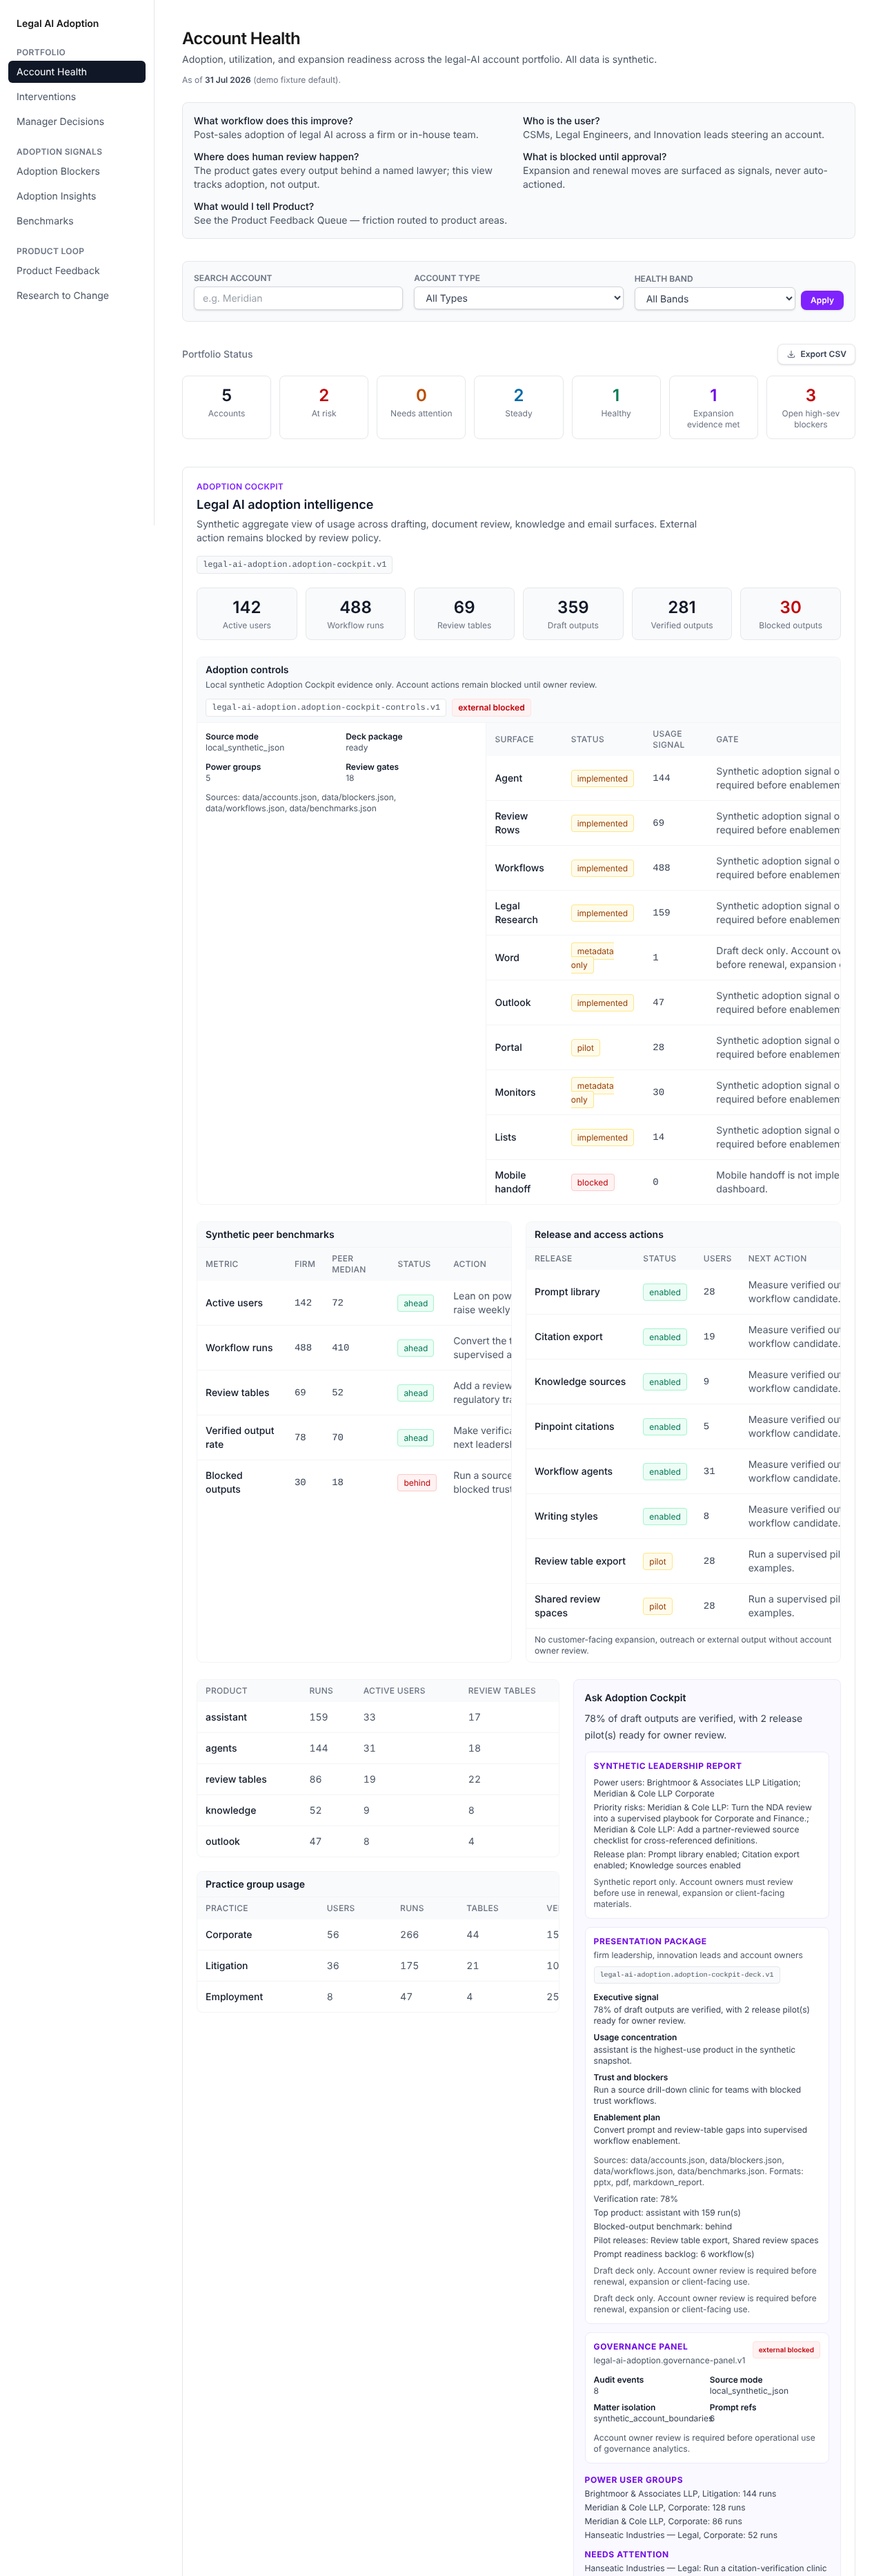
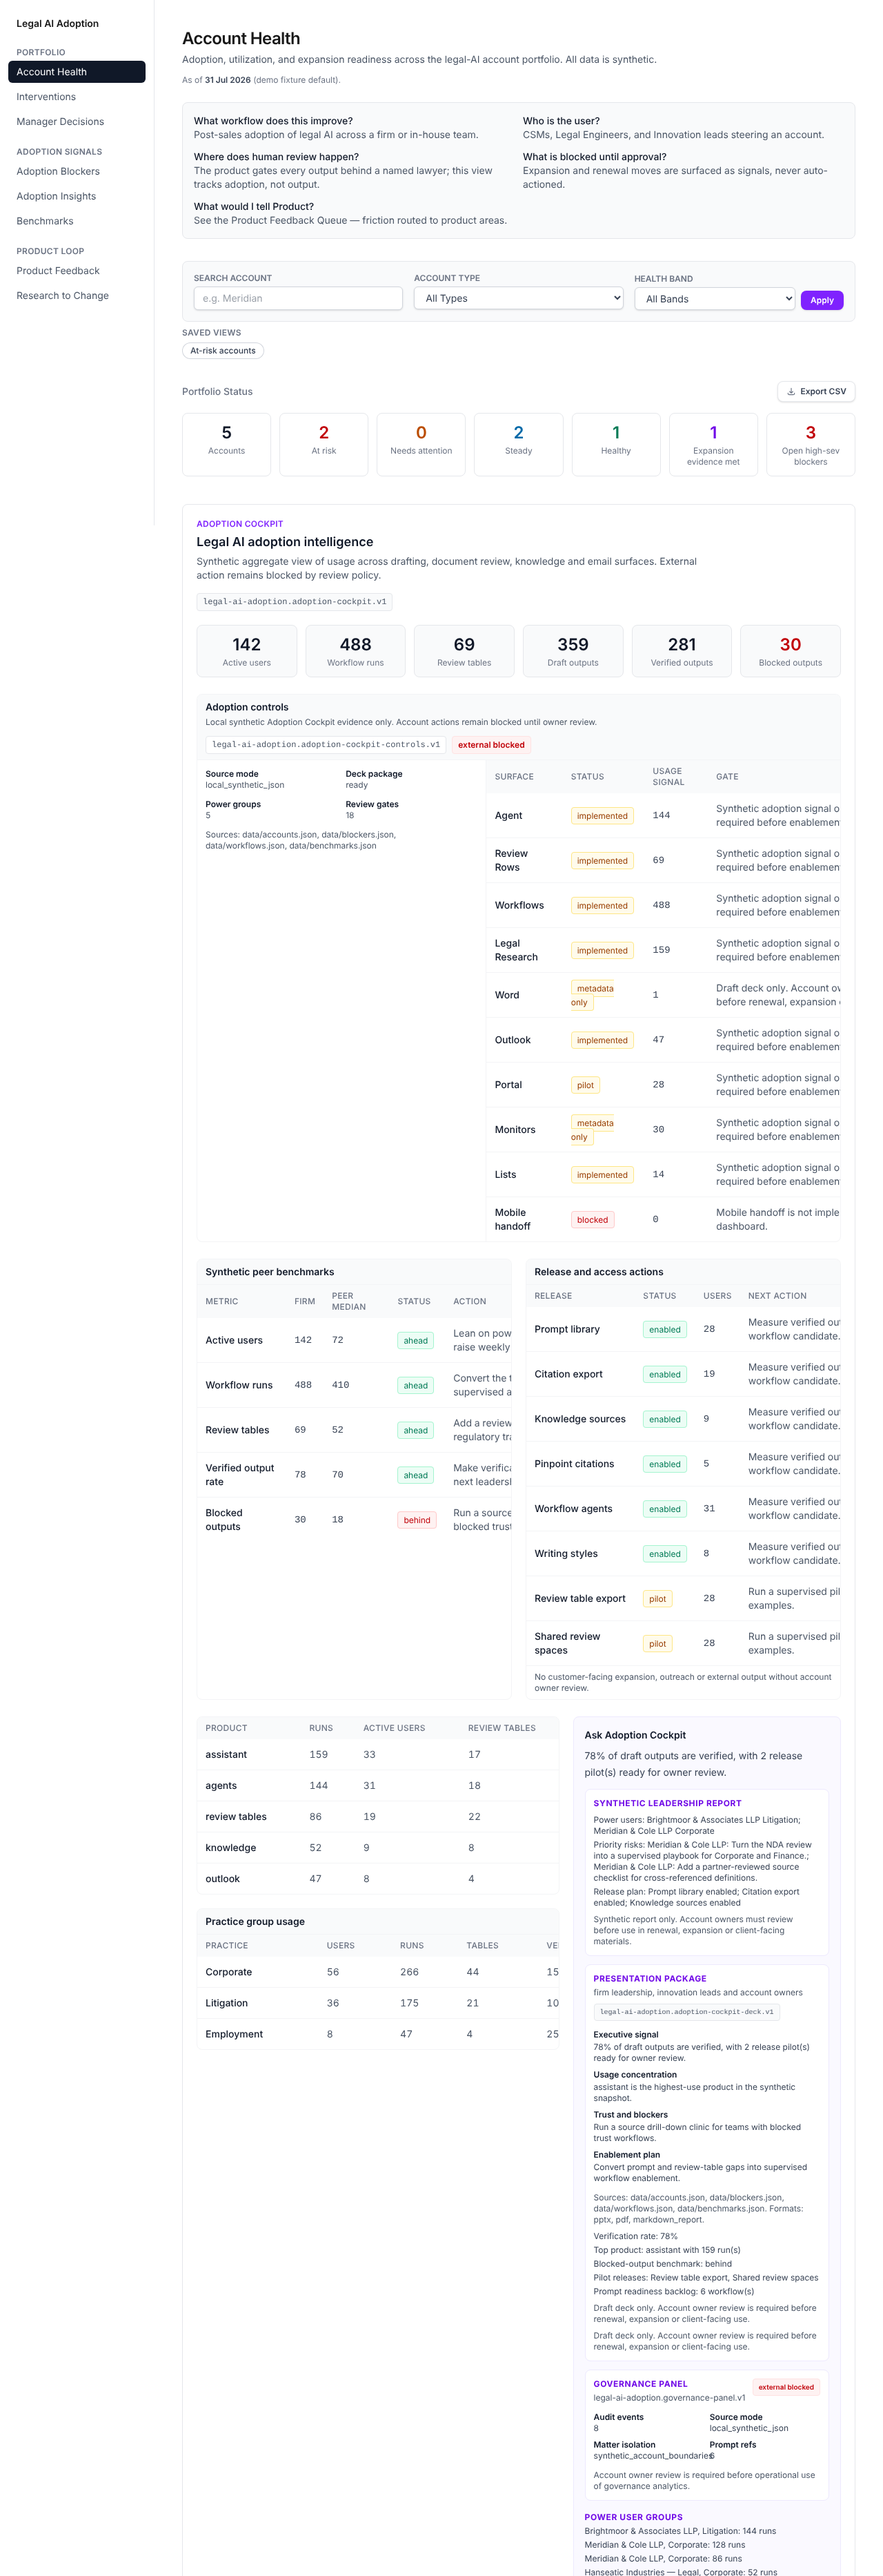
docs: accept ADR 0005 and record saved views as built
ADR 0005 moves from Proposed to Accepted with what was built. The plan
marks C5 and H4 built; FEATURES, the CHANGELOG, data/README (views.json),
AGENTS, the test count (361) and the screenshots are updated.

Claude-Session: https://claude.ai/code/session_01UWrozuzC1TPwPwvaWzHsCQ

diff --git a/docs/research/adaptation-plan.md b/docs/research/adaptation-plan.md
@@ -58,7 +58,7 @@ fails. Effort S, M or L. Evidence is the strongest tag behind the pattern.
 | F2 | Health-score explainability (H7) | 4 | pass (4, 11) | S | Claimed | Differentiator | Built |
 | F3 | Per-practice-group usage CSV (H8) | 4 | pass (1, 3) | S | Claimed | Table stakes | Built |
 | C4 | Feedback themes with account and persona counts (H6) | 3 | pass (6) | S | Claimed | Differentiator | Built in a follow-up (2026-10-30) |
-| C5 | Saved views and filters on every list (H4) | 3 | pass | M | Claimed | Table stakes | Not built: budget |
+| C5 | Saved views and filters on every list (H4) | 3 | pass | M | Claimed | Table stakes | Built in a follow-up (2026-11-02) |
 | C6 | Adopters vs non-adopters, cohort curves (H5) | 3 | pass only with a labelled synthetic comparison group (1) | M | Claimed | Table stakes | Needs owner decision |
 | C7 | Unused and inactive seat counts per account | 3 | pass (3) if the data held last-activity dates; it does not | M | Observed | Table stakes | Not built: budget (needs data) |
 | C8 | Window and lag stated beside every count | 3 | pass (3) | S | Claimed | Differentiator | Not built: budget |
@@ -207,10 +207,14 @@ admin consoles would firm it up.
   routing unchanged. The change record that covers that theme (chg-001) cites only fb-001, so
   the two folded-in items still show no delivery status.
 
-### C5. Saved views (not built: budget)
+### C5. Saved views (built in a follow-up, 2026-11-02)
 
-- GET filters on `/blockers`, `/feedback` and `/interventions` like `/`, and named views as a
-  committed `data/views.json` of query strings. ADR: [0005](../adr/0005-saved-views.md).
+- GET filters on `/blockers`, `/feedback` and `/interventions`, read on the server
+  (`lib/list-filters.ts`), and six named views in a committed, validated `data/views.json`
+  (`lib/views.ts`), shown as links on their page and on `/`. Unknown filter values are shown as
+  ignored. No filter or view can sort, or select by owner or specialist; a health-band view
+  cannot be presented as an expansion or renewal list. ADR:
+  [0005](../adr/0005-saved-views.md), now accepted.
 
 ## Hypothesis verdicts
 
@@ -219,7 +223,7 @@ admin consoles would firm it up.
 | H1 | **Confirmed, built (F1).** Recharts 3 is about 155 KB gzipped as a full bundle (Observed; tree-shaken estimate 90 to 130 KB, Inferred); Tremor on Recharts 2 about 150 to 200 KB (Inferred). Neither ships a hidden table. | npm tarballs measured; library source |
 | H2 | **Confirmed, built (D2), modified.** A sidebar, not a command palette. | Baseline: two nav rows at 1280px |
 | H3 | **Modified.** Tokens built (D1); dark mode ADR only, now with an owner decision on the shared design system. | axe baseline; ADR 0003 |
-| H4 | **Parked.** Fits; not built in this budget. | Vercel, Legora, Linear (Claimed) |
+| H4 | **Confirmed, built in a follow-up (C5).** URL filters and committed presets; no per-person storage. | Vercel, Legora, Linear (Claimed) |
 | H5 | **Modified.** Activation and repeat-use curves per period are built into F1; adopters versus non-adopters needs a synthetic comparison group, which is an owner decision. | Cortex, Jellyfish (Claimed) |
 | H6 | **Confirmed, built in a follow-up (C4).** No schema change was needed; the `duplicate` status is not built. | Canny, Linear, Productboard (Claimed) |
 | H7 | **Confirmed, built (F2).** | Vitally, Gainsight, Planhat (Claimed) |
@@ -288,7 +292,7 @@ admin consoles would firm it up.
 
 ## Not built: budget
 
-C5 saved views, C7 unused-seat counts, C8 window and lag beside every
+C7 unused-seat counts, C8 window and lag beside every
 count, D3 type scale.
 
 ## Needs owner decision

diff --git a/docs/adr/0005-saved-views.md b/docs/adr/0005-saved-views.md
@@ -1,11 +1,23 @@
 # 0005. Saved views as URL query strings
 
-- **Status:** Proposed, 2026-10-20. Not built.
+- **Status:** Accepted and built, 2026-11-02 (proposed 2026-10-20).
 - **Context.** `/` filters by `search`, `type` and `band` through GET parameters. Other lists
   have no filters. Researched products keep views as stacked URL filters (Vercel) or named
   views (Linear, Legora date ranges) (Claimed). The dashboard has no database and no auth.
 - **Proposal.** Add GET filters to `/blockers`, `/feedback` and `/interventions`, read on the
   server. Named views live in a committed, Zod-validated `data/views.json` of query strings,
   shown as links. Personal views are browser bookmarks; nothing is stored per person.
-- **Consequences.** No persistence or per-user data. A view never ranks specialists and never
-  filters by health alone into an expansion list.
+- **Built.**
+  - `lib/list-filters.ts` defines each list's filters and reads them on the server.
+    - `/blockers`: account, severity, category.
+    - `/feedback`: account, severity, product area, routing.
+    - `/interventions`: account, stage.
+  - A value that is not one of a filter's options is shown as ignored, never matched to an empty list.
+  - `components/ListFilters.tsx` is a plain GET form, so a filtered list is a URL; the filter keeps a chosen `?asOf=`.
+  - Each page applies filters to its list only. Summary panels (accounts needing attention, the feedback themes and routing counts, the intervention totals) stay portfolio-wide, and the page says so.
+  - Named views live in `data/views.json`. `lib/views.ts` loads and validates them, and they appear as links on their page and on `/`. The link matching the current URL is marked with `aria-current`.
+- **Consequences.**
+  - No persistence or per-user data; a person's own views are bookmarks.
+  - The filter keys have no owner, specialist or sort parameter, and `lib/views.ts` refuses a view that uses one: a view filters, it never ranks people.
+  - `lib/views.ts` also refuses a health-band view presented as an expansion or renewal list.
+  - `/blockers` is now rendered per request instead of prerendered.

diff --git a/docs/FEATURES.md b/docs/FEATURES.md
@@ -204,6 +204,26 @@ Implementation:
 4. `data/feedback.json`
 5. `docs/product-feedback-notes.md`
 
+## Filters and saved views
+
+`/blockers`, `/feedback` and `/interventions` have GET filters, read on the server:
+- `/blockers`: account, severity and category.
+- `/feedback`: account, severity, product area and routing.
+- `/interventions`: account and stage.
+
+A filtered list is a URL, so it can be bookmarked or shared. A value that is not one of a
+filter's options is reported as ignored, not matched to an empty list. Filters apply to the
+list; summary panels stay portfolio-wide, and each page says so. Named views from
+`data/views.json` appear as links on their page and on `/`. There is no owner, specialist or
+sort filter, and a health-band view cannot be presented as an expansion list. See
+[ADR 0005](adr/0005-saved-views.md).
+
+Implementation:
+
+1. `lib/list-filters.ts`
+2. `lib/views.ts` and `data/views.json`
+3. `components/ListFilters.tsx` and `components/SavedViewLinks.tsx`
+
 ## App shell
 
 A sidebar grouped by job (Portfolio, Adoption signals, Product loop) from the `lg`

diff --git a/CASE_STUDY.md b/CASE_STUDY.md
@@ -108,11 +108,10 @@ weights are rescaled. Expansion readiness is now a separate evidence model.
 
 ## Verification
 
-280 Vitest tests cover denominators, missing evidence, intervention states, health
+361 Vitest tests cover denominators, missing evidence, intervention states, health
 scoring, the value verdict, expansion decisions, manager ordering, the report, the
-charts' Unknown gaps, the health-score explanation, the usage export and the feedback
-themes. A
-mutation spot-check broke seven rules one at a time (for example, counting unknown
+charts' Unknown gaps, the health-score explanation, the usage export, the feedback
+themes and the saved views. A mutation spot-check broke seven rules one at a time (for example, counting unknown
 evidence as met, or dividing repeat use by active users) and the suite failed each time.
 The rendered pages were inspected at 1280 and 375 pixels.
 

diff --git a/AGENTS.md b/AGENTS.md
@@ -41,6 +41,9 @@ or personal data.
   `/accounts.csv` (the portfolio export; takes the `/` filters) and `/accounts/[id]/usage.csv`.
 - `components/` — presentational Server Components; `components/engagement/` holds the
   panels for the manager layer; `components/charts/` holds the SVG charts (no chart library).
+  `ListFilters` and `SavedViewLinks` render the list filters and the named views in
+  `data/views.json`; `lib/list-filters.ts` and `lib/views.ts` define and validate them. A view
+  filters and never ranks people: no owner, specialist or sort parameter.
   `NavLinks` and `app/error.tsx` are the only client components; `lib/client-boundary.test.ts`
   fails if a client component imports the data layer (`ExportButton` is a Server Component
   linking to `/accounts.csv`).

diff --git a/data/README.md b/data/README.md
@@ -15,6 +15,7 @@ Every record in this folder is **synthetic**. It was generated for demonstration
 | `interventions.json` | Interventions from observed problem to outcome |
 | `adoption-periods.json` | Per-workflow counts in four-week reporting periods |
 | `value-measurements.json` | Baseline and follow-up time to an acceptable result, quality failures, rework, financial assumptions |
+| `views.json` | Named saved views: a label, a page and a query string of that page's filters, validated by `lib/views.ts` |
 
 | `evidence-loop.json` | Research questions, sessions, observations, problems and product changes with their decision, delivery record, follow-up and outcome (`legal-ai-adoption.evidence-loop.v1`) |
 

diff --git a/CHANGELOG.md b/CHANGELOG.md
@@ -8,6 +8,13 @@ From the October 2026 competitive research ([plan](docs/research/adaptation-plan
 
 ### Added
 
+- Filters and saved views:
+  - GET filters on `/blockers`, `/feedback` and `/interventions`.
+  - Six named views in `data/views.json`, shown as links on their page and on `/`.
+  - Unknown filter values are reported as ignored.
+  - No filter or view can rank or select people.
+  ([ADR 0005](docs/adr/0005-saved-views.md))
+
 - Feedback themes on `/feedback`: per theme, the accounts and persona roles that raised it
   as counts with their denominators, listed by name and never ranked; routing kept as triage;
   delivery and outcome read only from linked change records.

diff --git a/docs/adr/README.md b/docs/adr/README.md
@@ -9,4 +9,4 @@ consequences. `Proposed` means waiting for the owner; nothing in it is built.
 | [0002](0002-navigation.md) | Accepted | A grouped sidebar from the `lg` breakpoint, plus route states |
 | [0003](0003-dark-mode.md) | Proposed | Dark mode through semantic tokens, only after every token passes AA in both themes |
 | [0004](0004-exports.md) | Proposed | Leadership PDF through a print stylesheet; PPTX deferred |
-| [0005](0005-saved-views.md) | Proposed | Saved views as URL query strings with committed presets |
+| [0005](0005-saved-views.md) | Accepted | Saved views as URL query strings with committed presets |
